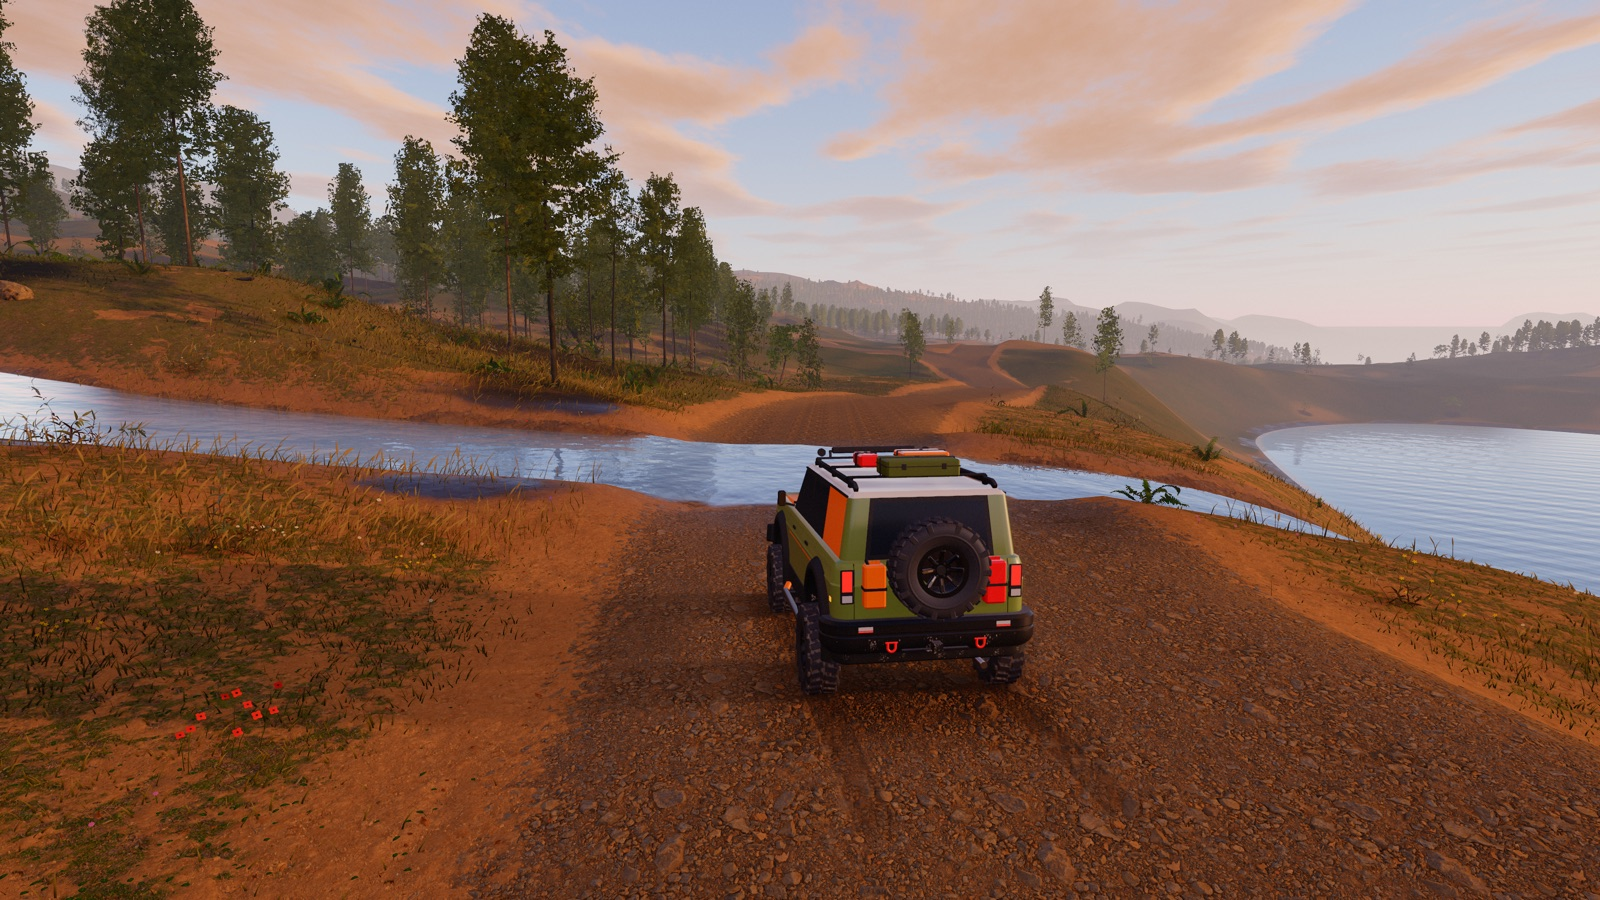
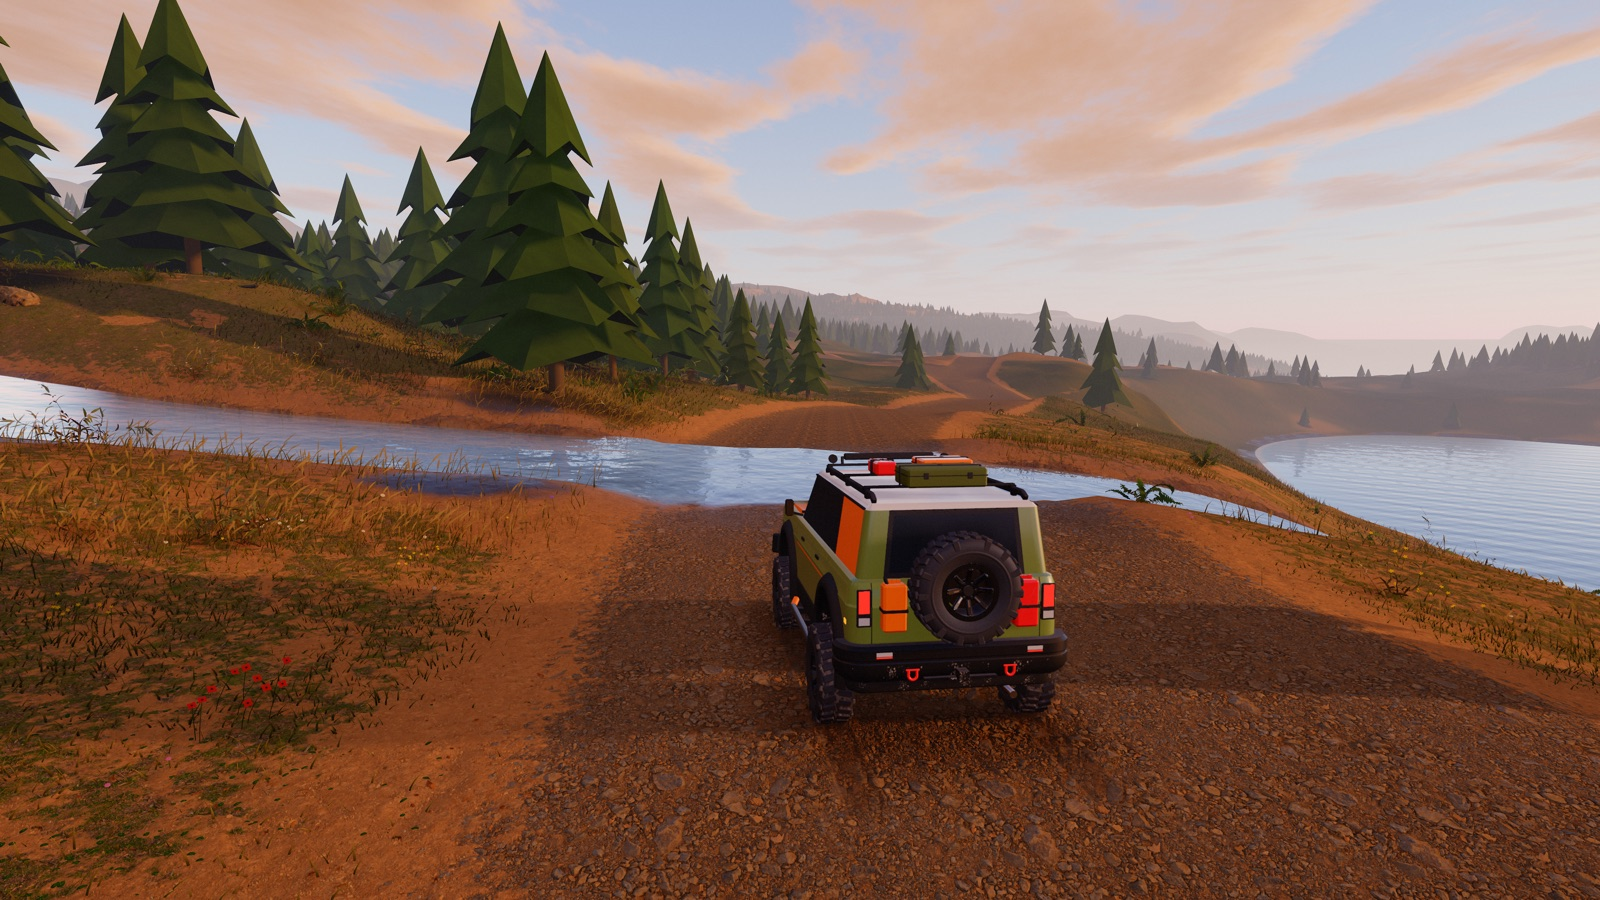
Re-shoot the README screenshots with the stylized default trees
readme_shots.txt 7/0 on the release build of 009a095.

diff --git a/devlog/2026-11-02.md b/devlog/2026-11-02.md
@@ -289,6 +289,8 @@ road bake and make the roads follow the terrain.
   and bakes the current level again (vehicle back at the spawn). The library rule is relaxed: a model that fails is
   skipped and named in `modelError()`, only a library with no loadable model falls back to procedural trees and
   rocks. Built and gated in the worktree (`281842d` + these hunks).
+- **15:10 — (menu) README screenshots re-shot with the stylized trees.** `readme_shots.txt` 7 / 0; `docs/menu.jpg`,
+  `docs/ford.jpg`, `docs/meadow.jpg` converted with sips (JPEG 82, 1600 px wide) and looked at.
 
 ## Problems and solutions
 
